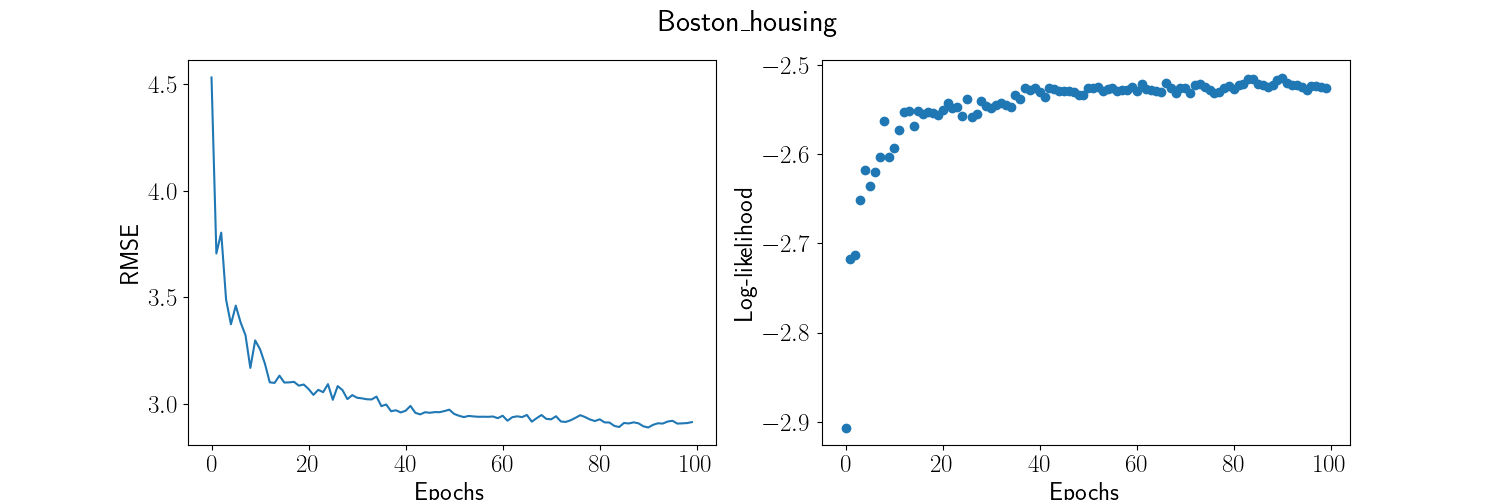
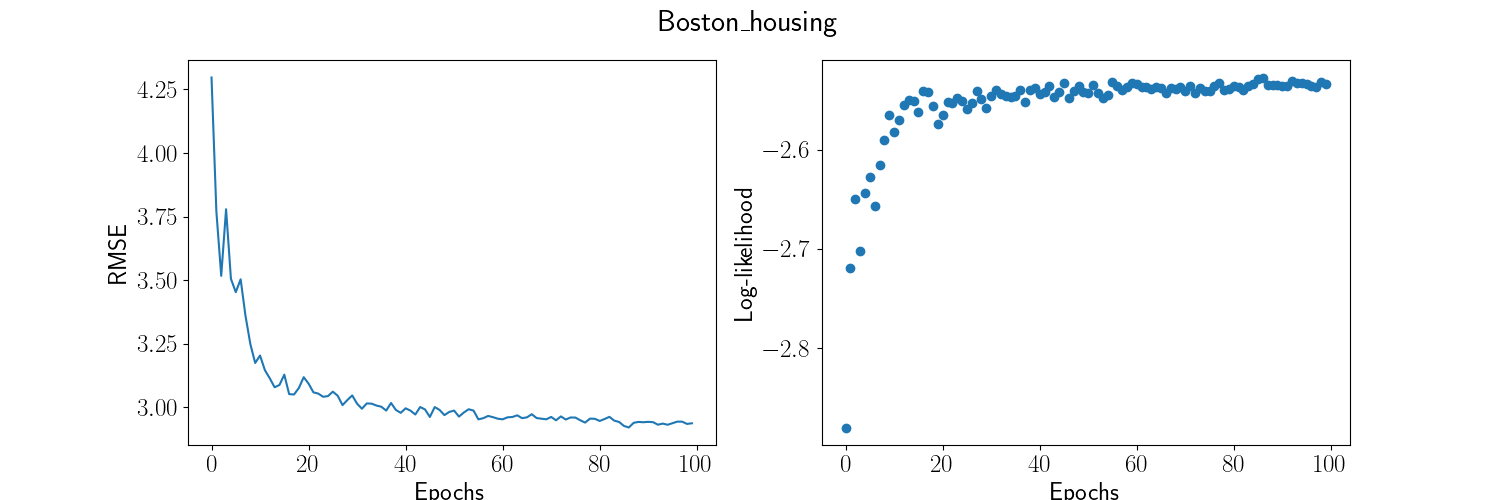
performed a test for UCI_Benchmark_Baseline branch

diff --git a/python_examples/small_UCI_experiment.py b/python_examples/small_UCI_experiment.py
@@ -9,9 +9,9 @@ from tqdm import tqdm
 import matplotlib.pyplot as plt
 # go one level down to import the data_loader and regression classes
 # os.chdir('..')
-import sys
-print(sys.path)
-sys.path.append('/home/bd/projects/cuTAGI') # always append the path to the root directory
+# import sys
+# print(sys.path)
+# sys.path.append('/home/bd/documents/cuTAGI') # always append the path to the root directory
 
 from python_examples.data_loader import RegressionDataLoader
 from python_examples.regression import Regression
@@ -21,7 +21,7 @@ from pytagi import NetProp
 # data_names = ["Boston_housing"] # "Concrete","Energy", "Yacht", "Wine", \
             #   "Kin8nm","Naval",\
             #   "Power-plant","Protein"
-data_names = ["Concrete","Energy", "Yacht", "Wine"]
+data_names = ["Boston_housing"]
 
 for j in range(len(data_names)):
 
